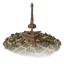
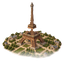
Landmarks: map keeps its graded painting, cards get the ungraded copy; lift quartz mine and oil well cards
Claude-Session: https://claude.ai/code/session_01YXxZpnZ8qQ74Wk76ZMXuVs

diff --git a/app/src/map/landmarks.ts b/app/src/map/landmarks.ts
@@ -2,7 +2,7 @@
 import type { BuildingKind, Faction, Hex, PlayerView } from '../types';
 import { buildingIconName, itemName } from '../data';
 import { hexAt, hexToPixel } from '../hex';
-import { itemArtUrl } from '../unlockArt';
+import { buildingArtSlug, itemArtUrl } from '../unlockArt';
 import { tintedIcon } from '../icons';
 import { HEX_SIZE, isFar } from './grid';
 import { ATLAS } from './style';
@@ -22,6 +22,16 @@ export function landmarksOf(view: PlayerView): Landmark[] {
   return out;
 }
 
+// The map's own grade of a landmark painting (muted to the towns' palette, ground washed into the hex). The research
+// cards and production list use the ungraded copy in assets/unlocks (tools/art/card-grade.py, art audit 2026-11-22).
+const mapGraded = import.meta.glob<string>('../assets/landmarks/*-256.png', { eager: true, query: '?url', import: 'default' });
+const mapGradedBySlug = new Map(Object.entries(mapGraded).map(([path, url]) => [/\/([a-z0-9-]+)-256\.png$/.exec(path)![1], url]));
+/** The landmark's map painting: the map-graded copy when there is one, else the unlock art. */
+export function landmarkArtUrl(building: BuildingKind, faction: Faction | undefined): string | null {
+  return mapGradedBySlug.get(buildingArtSlug(building, faction)) ?? mapGradedBySlug.get(buildingArtSlug(building))
+    ?? itemArtUrl({ kind: 'Building', building }, faction, 256);
+}
+
 const art = new Map<string, HTMLImageElement | null>();
 const listeners = new Set<() => void>();
 /** Called when a landmark painting finishes decoding, so the map repaints (there is no placeholder to stand in). */
@@ -30,7 +40,7 @@ export function onLandmarkArtLoad(cb: () => void): () => void {
   return () => listeners.delete(cb);
 }
 export function landmarkImage(building: BuildingKind, faction: Faction | undefined): HTMLImageElement | null {
-  const url = itemArtUrl({ kind: 'Building', building }, faction, 256);
+  const url = landmarkArtUrl(building, faction);
   if (!url || typeof Image === 'undefined') return null;
   let img = art.get(url);
   if (img === undefined) {

diff --git a/app/src/map/landmarks.test.ts b/app/src/map/landmarks.test.ts
@@ -1,5 +1,5 @@
 import { describe, expect, it } from 'vitest';
-import { landmarkBox, landmarkBoxes, landmarkCore, landmarksOf, shortLabel } from './landmarks';
+import { landmarkArtUrl, landmarkBox, landmarkBoxes, landmarkCore, landmarksOf, shortLabel } from './landmarks';
 import { itemArtUrl } from '../unlockArt';
 import { GREAT_WORKS } from '../data';
 import { CITY_WORLD } from './terrain';
@@ -77,5 +77,20 @@ describe('constructed wonder landmarks', () => {
     expect(next.get(5)).toEqual(first.get(5));
     expect(next.get(6)).toEqual(first.get(6));
     expect(next.get(5)).not.toEqual(next.get(6));
+  });
+});
+
+describe('landmark map art and card art', () => {
+  // The map keeps the palette-graded painting; cards use the ungraded copy (tools/art/card-grade.py, 2026-11-22).
+  it('the map draws the graded copy, the cards the unlock copy', () => {
+    for (const building of ['Pyramids', 'HagiaSophia', 'EiffelTower', 'IterReactor', 'RelayUplink', 'WorldExchange', 'PlanetaryFoundry'] as BuildingKind[]) {
+      const map = landmarkArtUrl(building, undefined);
+      const card = itemArtUrl({ kind: 'Building', building }, undefined, 256);
+      expect(map, building).toMatch(/assets\/landmarks\//);
+      expect(card, building).toMatch(/assets\/unlocks\//);
+    }
+  });
+  it('a landmark with no graded copy falls back to its unlock art', () => {
+    expect(landmarkArtUrl('CourierHall' as BuildingKind, undefined)).toBe(itemArtUrl({ kind: 'Building', building: 'CourierHall' as BuildingKind }, undefined, 256));
   });
 });

diff --git a/tools/art/card-grade.py b/tools/art/card-grade.py
@@ -1,0 +1,54 @@
+#!/usr/bin/env python3
+"""Split a landmark's map art from its card art.
+
+The world wonders and Great Works are graded to the map palette (`landmark-atlas-edit.py`'s `atlas_edit`: colour 0.79,
+contrast 0.88, a 7.5% umber wash, brightness 0.965, and a ground fade into the hex) so they sit beside the painted towns.
+The same files were also the research-card, production and Guide art, where that grade read as washed out next to
+ungraded neighbours (art audit 2026-11-22). This keeps the graded 256 px painting for the map in
+`app/src/assets/landmarks/<slug>-256.png` and rewrites `app/src/assets/unlocks/<slug>-{256,128,64}.png` with the grade
+undone and the faded ground firmed up, so the card matches its set.
+
+    python3 tools/art/card-grade.py building-pyramids ...      # idempotent: always starts from the landmarks/ copy
+"""
+import shutil
+import sys
+from pathlib import Path
+
+import numpy as np
+from PIL import Image, ImageEnhance
+
+ROOT = Path(__file__).resolve().parents[2]
+UNLOCKS = ROOT / "app/src/assets/unlocks"
+LANDMARKS = ROOT / "app/src/assets/landmarks"
+UMBER = np.array([126, 103, 75], dtype=float)
+
+
+def ungrade(im: Image.Image) -> Image.Image:
+    alpha = im.getchannel("A")
+    rgb = np.asarray(im.convert("RGB")).astype(float) / 0.965
+    rgb = (rgb - 0.075 * UMBER) / 0.925
+    out = Image.fromarray(np.clip(rgb, 0, 255).astype("uint8"))
+    out = ImageEnhance.Contrast(out).enhance(1 / 0.88 * 1.04)
+    out = ImageEnhance.Color(out).enhance(1 / 0.79 * 1.06)
+    # The map fade washes the lower ground into the hex; on a card the ground patch should read as a firm base.
+    a = np.asarray(alpha).astype(float)
+    a = np.where(a > 8, np.minimum(255, a * 1.6 + 20), 0).astype("uint8")
+    out = out.convert("RGBA")
+    out.putalpha(Image.fromarray(a))
+    return out
+
+
+def main(slugs):
+    LANDMARKS.mkdir(exist_ok=True)
+    for slug in slugs:
+        keep = LANDMARKS / f"{slug}-256.png"
+        if not keep.exists():
+            shutil.copyfile(UNLOCKS / f"{slug}-256.png", keep)
+        card = ungrade(Image.open(keep).convert("RGBA"))
+        for size in (256, 128, 64):
+            card.resize((size, size), Image.LANCZOS).save(UNLOCKS / f"{slug}-{size}.png", optimize=True)
+        print(slug)
+
+
+if __name__ == "__main__":
+    main(sys.argv[1:])
